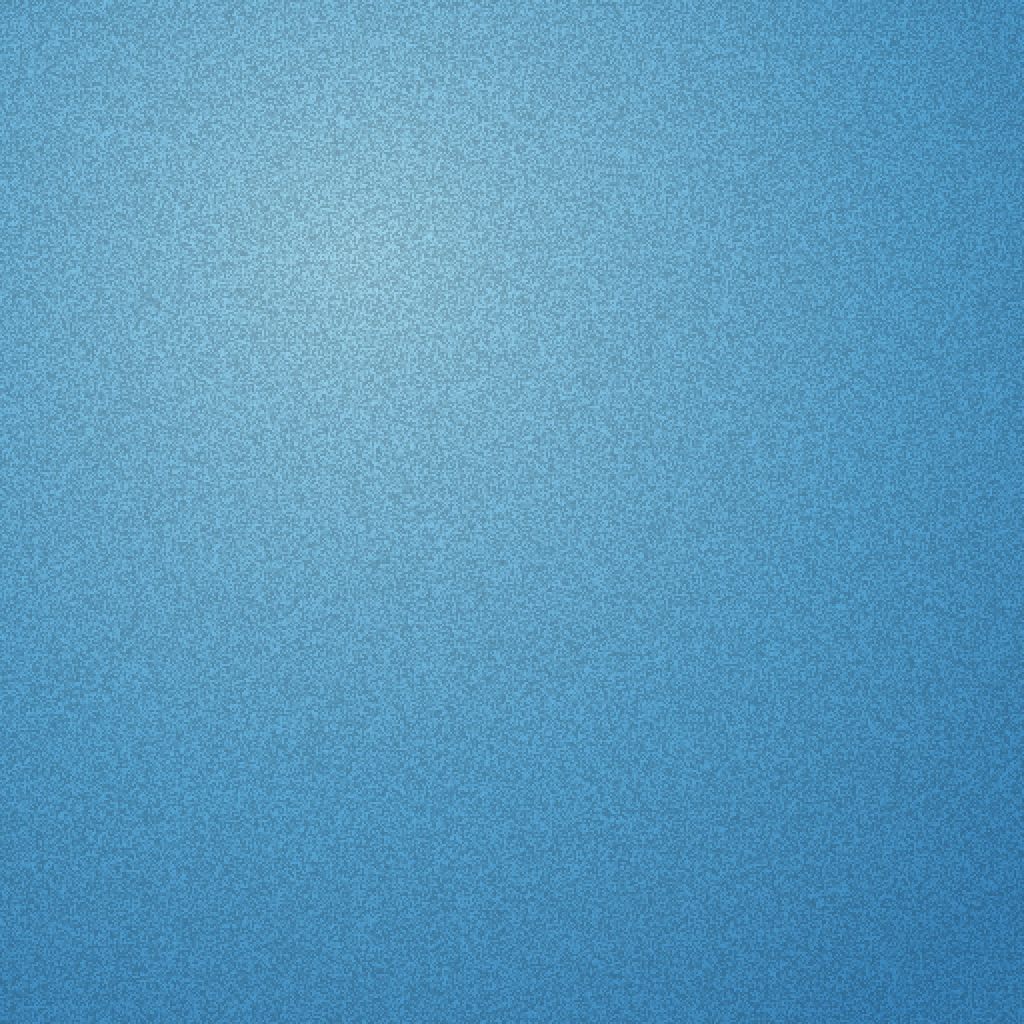
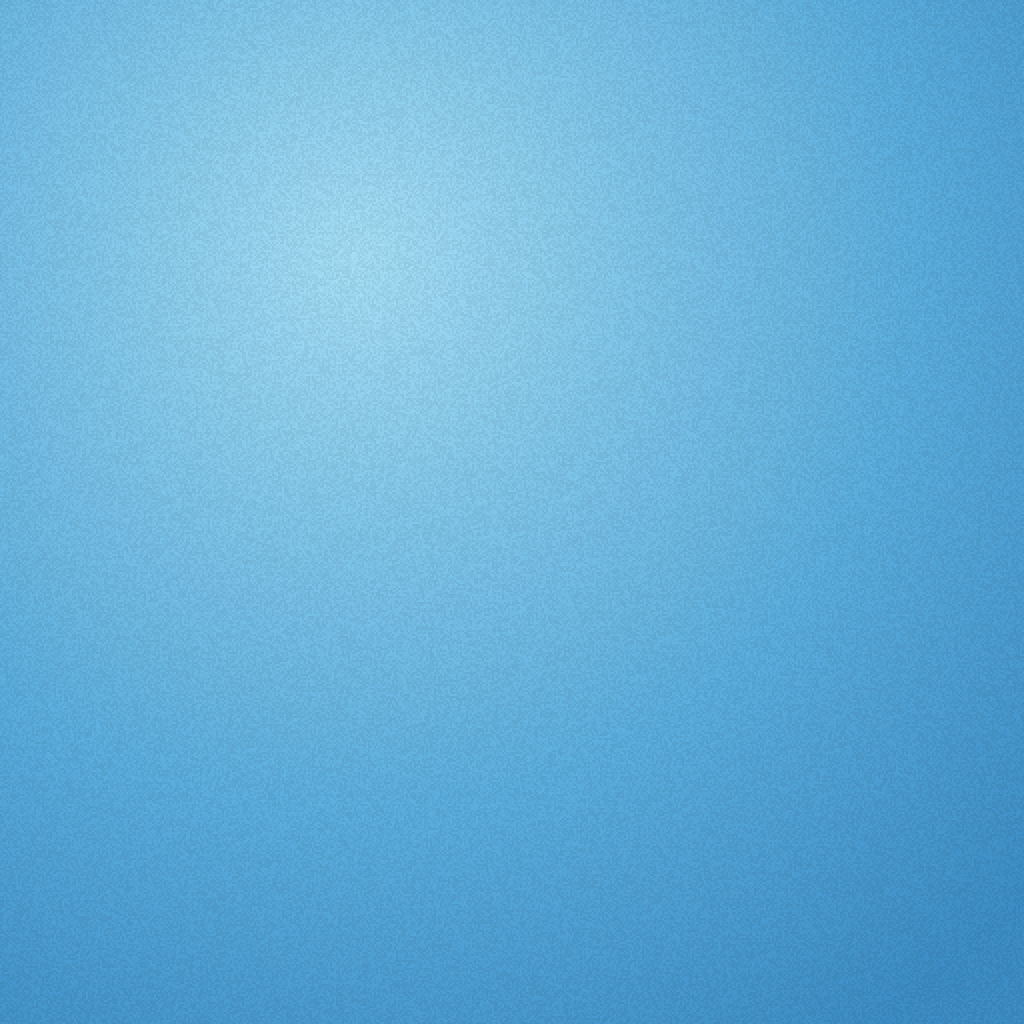
Ícono: vuelve el globo y la canasta de antes (Android como estaba); en iOS el globo toma la misma silueta redonda que en Android; grano más suave (antes se aplicaba dos veces)
Claude-Session: https://claude.ai/code/session_017FkcQpDzkf2gnNUK4w8AxS

diff --git a/scripts/iconos/portada.html b/scripts/iconos/portada.html
@@ -18,7 +18,7 @@ const sky=`<defs>
  <radialGradient id="sky" cx=".35" cy=".25" r=".9"><stop offset="0" stop-color="#A6E0F7"/><stop offset=".6" stop-color="#5DB0E0"/><stop offset="1" stop-color="#3E8FC8"/></radialGradient>
  <filter id="sh" x="-20%" y="-20%" width="140%" height="140%"><feDropShadow dx="0" dy="10" stdDeviation="10" flood-color="#173a5c" flood-opacity=".28"/></filter>
  <filter id="grain"><feTurbulence type="fractalNoise" baseFrequency=".9" numOctaves="2" seed="3"/><feColorMatrix values="0 0 0 0 0  0 0 0 0 0  0 0 0 0 0  0 0 0 .07 0"/><feComposite in2="SourceGraphic" operator="in"/></filter>
- <clipPath id="env"><path d="M170 230 C150 40 340 -120 590 -120 C840 -120 1030 40 1010 230 C995 300 880 345 770 358 L410 358 C300 345 185 300 170 230Z"/></clipPath>
+ <clipPath id="env"><path d="M95 -40 L1010 -40 L1010 250 Q960 330 860 352 L320 352 Q180 330 95 240Z"/></clipPath>
 </defs><rect width="1024" height="1024" fill="url(#sky)"/>`;
 // isla lejana con faro (a lo lejos, abajo a la derecha)
 const island=`<g transform="translate(${L.ix??-820} ${L.iy??-40})">
@@ -31,10 +31,10 @@ const island=`<g transform="translate(${L.ix??-820} ${L.iy??-40})">
 // globo (sobre, recortado arriba) con gajos rojos y crema, aro dorado
 const gores=[[95,'#E8452C'],[230,'#FBF1DC'],[360,'#E8452C'],[490,'#FBF1DC'],[620,'#E8452C'],[750,'#FBF1DC'],[880,'#E8452C']];
 const env=`<g ${sh}>
- <path d="M170 230 C150 40 340 -120 590 -120 C840 -120 1030 40 1010 230 C995 300 880 345 770 358 L410 358 C300 345 185 300 170 230Z" fill="${CR}" stroke="${CR}" stroke-width="30" stroke-linejoin="round"/>
+ <path d="M95 -40 L1010 -40 L1010 250 Q960 330 860 352 L320 352 Q180 330 95 240Z" fill="${CR}" stroke="${CR}" stroke-width="16" stroke-linejoin="round"/>
  <g clip-path="url(#env)">${gores.map(([x,f],i)=>`<path d="M${x-40} -60 Q${x+20} 150 ${x+(590-x)*.45} 360 L${x+130+(590-x-130)*.45} 360 Q${x+150} 150 ${x+90} -60Z" fill="${f}"/>`).join('')}
-  <path d="M160 -60 L360 -60 Q250 120 380 360 L160 360Z" fill="#000" opacity=".10"/><path d="M820 -40 L1010 -40 L1010 352 L860 352 Q930 140 820 -40Z" fill="#000" opacity=".14"/>
-  <path d="M200 260 Q590 360 990 260 L1020 370 L160 370Z" fill="#000" opacity=".12"/></g>
+  <path d="M95 -40 L320 -40 Q200 120 300 352 L95 352Z" fill="#000" opacity=".10"/><path d="M820 -40 L1010 -40 L1010 352 L860 352 Q930 140 820 -40Z" fill="#000" opacity=".14"/>
+  <path d="M180 300 Q590 380 1000 290 L1010 360 L95 360Z" fill="#000" opacity=".12"/></g>
 </g>
 <g ${sh}><ellipse cx="590" cy="352" rx="300" ry="34" fill="none" stroke="${CR}" stroke-width="40"/><ellipse cx="590" cy="352" rx="300" ry="34" fill="none" stroke="#E9B43C" stroke-width="22"/><ellipse cx="590" cy="347" rx="300" ry="34" fill="none" stroke="#F7D46E" stroke-width="7" stroke-dasharray="900 2000"/></g>`;
 // cuerdas
@@ -47,14 +47,14 @@ const scarf=`<g ${sh}>${cut('M470 690 Q360 640 250 650 Q170 655 90 610 L120 668 
 // canasta de mimbre
 const bx0=170,bx1=900,ry0=820,ry1=860;
 let weave='';for(let r=0;r<6;r++)for(let k=0;k<10;k++){const x=bx0+30+k*72,y=ry1+30+r*48;weave+=`<rect x="${x}" y="${y}" width="66" height="42" rx="6" fill="${(r+k)%2?'#C98A4B':'#B37538'}"/>`;}
-const basket=(()=>{const L0=bx0,R0=bx1,T0=ry0,T1=ry1,rad=34;
- const body=`M${L0+6} ${T0+10} L${R0-6} ${T1} L${R0-34} 1060 Q${R0-38} 1100 ${R0-80} 1100 L${L0+86} 1100 Q${L0+44} 1100 ${L0+40} 1060Z`;
- const rim=`M${L0-20+rad} ${T0-30} Q${(L0+R0)/2} ${T0-10} ${R0+20-rad} ${T1-22} Q${R0+24} ${T1-20} ${R0+24} ${T1+8} Q${R0+24} ${T1+36} ${R0+20-rad} ${T1+36} Q${(L0+R0)/2} ${T0+48} ${L0-20+rad} ${T0+30} Q${L0-24} ${T0+28} ${L0-24} ${T0} Q${L0-24} ${T0-30} ${L0-20+rad} ${T0-30}Z`;
- const rimHi=`M${L0-20+rad} ${T0-30} Q${(L0+R0)/2} ${T0-10} ${R0+20-rad} ${T1-22} Q${R0+22} ${T1-20} ${R0+23} ${T1-4} Q${(L0+R0)/2} ${T0+10} ${L0-22} ${T0-8} Q${L0-22} ${T0-30} ${L0-20+rad} ${T0-30}Z`;
- return `<g ${sh}><path d="${body}" fill="${CR}" stroke="${CR}" stroke-width="30" stroke-linejoin="round"/>
- <clipPath id="bk"><path d="${body}"/></clipPath>
- <g clip-path="url(#bk)" transform="rotate(3.2 ${L0} ${T0})"><rect x="0" y="${T0}" width="1100" height="400" fill="#A86B33"/>${weave}</g></g>
- <g ${sh}><path d="${rim}" fill="${CR}" stroke="${CR}" stroke-width="26" stroke-linejoin="round"/><path d="${rim}" fill="#D99A55"/><path d="${rimHi}" fill="#EDB873"/></g>`;})();
+const basket=`<g ${sh}>
+ <path d="M${bx0} ${ry0+10} L${bx1} ${ry1} L${bx1-30} 1100 L${bx0+40} 1100Z" fill="${CR}" stroke="${CR}" stroke-width="16" stroke-linejoin="round"/>
+ <clipPath id="bk"><path d="M${bx0} ${ry0+10} L${bx1} ${ry1} L${bx1-30} 1100 L${bx0+40} 1100Z"/></clipPath>
+ <g clip-path="url(#bk)" transform="rotate(3.2 ${bx0} ${ry0})"><rect x="0" y="${ry0}" width="1100" height="400" fill="#A86B33"/>${weave}</g>
+</g>
+<g ${sh}><path d="M${bx0-20} ${ry0-30} Q${(bx0+bx1)/2} ${ry0-10} ${bx1+20} ${ry1-20} L${bx1+22} ${ry1+36} Q${(bx0+bx1)/2} ${ry0+48} ${bx0-22} ${ry0+30}Z" fill="${CR}" stroke="${CR}" stroke-width="14" stroke-linejoin="round"/>
+ <path d="M${bx0-20} ${ry0-30} Q${(bx0+bx1)/2} ${ry0-10} ${bx1+20} ${ry1-20} L${bx1+22} ${ry1+36} Q${(bx0+bx1)/2} ${ry0+48} ${bx0-22} ${ry0+30}Z" fill="#D99A55"/>
+ <path d="M${bx0-20} ${ry0-30} Q${(bx0+bx1)/2} ${ry0-10} ${bx1+20} ${ry1-20} L${bx1+21} ${ry1-2} Q${(bx0+bx1)/2} ${ry0+10} ${bx0-21} ${ry0-10}Z" fill="#EDB873"/></g>`;
 // manos sobre el borde
 const hand=(x,y,r)=>`<g transform="translate(${x} ${y}) rotate(${r})" ${sh}>${cut('M-46 10 Q-50 -34 -8 -40 Q44 -44 50 -6 Q54 28 30 34 L-30 34 Q-46 32 -46 10Z','#F1C9A0',14)}
  <path d="M-20 -30 L-20 14 M2 -34 L2 14 M24 -30 L24 14" stroke="#D9A57A" stroke-width="6" stroke-linecap="round"/></g>`;
@@ -66,8 +66,8 @@ const cloudImgs=a=>a.map(([x,y,w])=>`<image href="${cloud}" x="${x}" y="${y}" wi
 let svg='';
 if(mode!=='fg') svg+=sky;
 if(mode!=='bg'){
- svg+=`<g>${cloudImgs(clouds.slice(0,2))}${island}${env}${ropesBack}${nilo}${ropesFront}${basket}${hand(440,830,-4)}${hand(735,852,6)}${cloudImgs(clouds.slice(2))}</g>`;
+ svg+=`<g>${cloudImgs(clouds.slice(0,2))}${island}${mode==='icon'?`<defs><clipPath id="cO"><circle cx="512" cy="512" r="508"/></clipPath><clipPath id="cI"><circle cx="512" cy="512" r="492"/></clipPath></defs><g clip-path="url(#cO)"><path d="M95 -40 L1010 -40 L1010 250 Q960 330 860 352 L320 352 Q180 330 95 240Z" fill="${CR}" stroke="${CR}" stroke-width="16" stroke-linejoin="round"/></g><g clip-path="url(#cI)">${env}</g>`:env}${ropesBack}${nilo}${ropesFront}${basket}${hand(440,830,-4)}${hand(735,852,6)}${cloudImgs(clouds.slice(2))}</g>`;
 }
-const wrap=`<svg xmlns="http://www.w3.org/2000/svg" viewBox="0 0 1024 1024" width="${S}" height="${S}">${mode==='fg'?sky.replace(/<rect[^>]*\/>/,''):''}${mode==='fg'?`<g transform="translate(512 512) scale(.667) translate(-512 -512)">${svg}</g>`:svg}<rect width="1024" height="1024" filter="url(#grain)" opacity="${mode==='fg'?0:1}"/></svg>`;
+const wrap=`<svg xmlns="http://www.w3.org/2000/svg" viewBox="0 0 1024 1024" width="${S}" height="${S}">${mode==='fg'?sky.replace(/<rect[^>]*\/>/,''):''}${mode==='fg'?`<g transform="translate(512 512) scale(.667) translate(-512 -512)">${svg}</g>`:svg}</svg>`;
 c.innerHTML=wrap; document.title='ok';
 </script></body></html>

diff --git a/scripts/iconos/render_portada.py b/scripts/iconos/render_portada.py
@@ -18,7 +18,7 @@ import random
 from PIL import ImageChops
 def grano(path):  # grano de cartulina suave, como el resto del juego
   im=Image.open(path); mode=im.mode; im=im.convert('RGBA'); W,H=im.size
-  random.seed(7); n=Image.new('L',(W//2,H//2)); n.putdata([random.randint(222,255) for _ in range((W//2)*(H//2))]); n=n.resize((W,H),Image.NEAREST)
+  random.seed(7); n=Image.new('L',(W//2,H//2)); n.putdata([random.randint(234,255) for _ in range((W//2)*(H//2))]); n=n.resize((W,H),Image.NEAREST)
   rgb=ImageChops.multiply(im.convert('RGB'),Image.merge('RGB',(n,n,n)))
   Image.merge('RGBA',(*rgb.split(),im.split()[3])).convert(mode).save(path)
 for f in ['icon.png','icon-foreground.png','icon-background.png']: grano(OUT+f)
